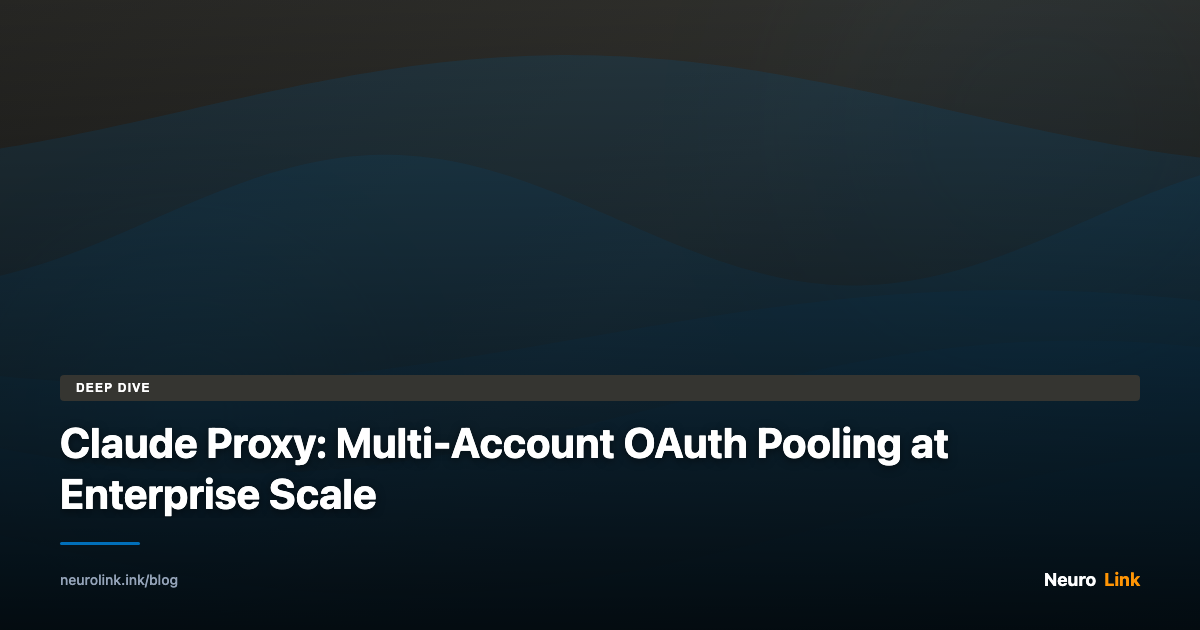
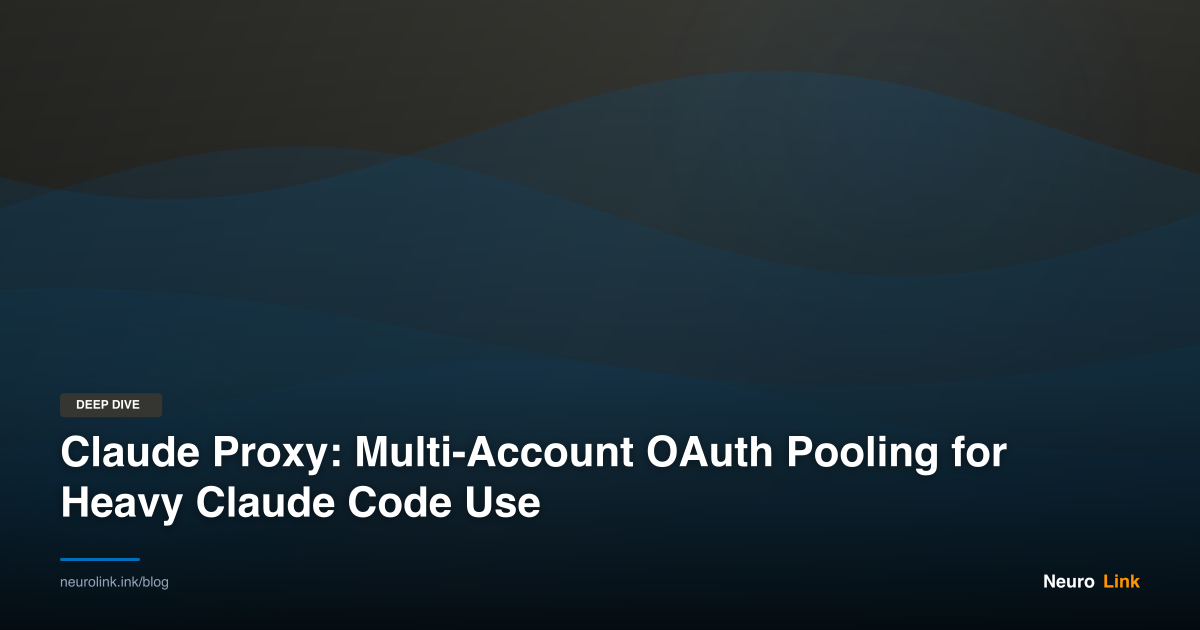
fix(blog): retitle the Claude Proxy pooling post and regenerate its hero
Follow-up to the reframe of its opening. The title, category, tag, image alt
and hero image still said "at Enterprise Scale". Retitle it to
"Claude Proxy: Multi-Account OAuth Pooling for Heavy Claude Code Use", drop
the Enterprise category and tag from this post, and render a new hero with the
same generator as the others.

The URL is unchanged. The five posts that link to it get the new title in
their Related lists, and hero-prompts.json and tone-assignments.json carry it
too.

diff --git a/_posts/2026-03-11-claude-proxy-multi-account-oauth.md b/_posts/2026-03-11-claude-proxy-multi-account-oauth.md
@@ -1,16 +1,14 @@
 ---
 layout: post
-title: 'Claude Proxy: Multi-Account OAuth Pooling at Enterprise Scale'
+title: 'Claude Proxy: Multi-Account OAuth Pooling for Heavy Claude Code Use'
 date: '2026-03-11 09:00:00 +0530'
 categories:
   - Deep Dive
-  - Enterprise
 tags:
   - neurolink
   - claude
   - proxy
   - oauth
-  - enterprise
   - anthropic
   - scaling
 author: neurolink
@@ -23,7 +21,7 @@ mermaid: true
 pin: false
 image:
   path: /assets/img/posts/claude-proxy-multi-account-oauth/hero.png
-  alt: 'Claude Proxy: Multi-Account OAuth Pooling at Enterprise Scale'
+  alt: 'Claude Proxy: Multi-Account OAuth Pooling for Heavy Claude Code Use'
 ---
 
 A single Anthropic account hits rate limits fast. When Claude Code is part of your daily work -- code review, architecture exploration, bug triage -- one account is a bottleneck, and two accounts managed manually is a headache. Picture one developer with a Pro subscription and a Max subscription of their own, switching between them by hand every time a rate-limit window closes: the math does not work.

diff --git a/_posts/2026-07-19-zero-downtime-updates-for-the-proxy.md b/_posts/2026-07-19-zero-downtime-updates-for-the-proxy.md
@@ -235,6 +235,6 @@ None of these are bugs; they're the actual shape of the trade-off this commit ma
 
 **Related posts:**
 
-- [Claude Proxy: Multi-Account OAuth Pooling at Enterprise Scale](/posts/claude-proxy-multi-account-oauth/)
+- [Claude Proxy: Multi-Account OAuth Pooling for Heavy Claude Code Use](/posts/claude-proxy-multi-account-oauth/)
 - [ModelPool's error-class fallback design](/posts/modelpools-error-class-fallback-design/)
 - [Fixing SSRF and TOCTOU in fetch pinning](/posts/fixing-ssrf-and-toctou-in-fetch-pinning/)

diff --git a/_posts/2026-08-21-designing-the-accounts-endpoint.md b/_posts/2026-08-21-designing-the-accounts-endpoint.md
@@ -421,6 +421,6 @@ Filter on `kind === "account"` to drop plumbing rows, read `costUsd` against `co
 
 **Related posts:**
 
-- [Claude Proxy: Multi-Account OAuth Pooling at Enterprise Scale](/posts/claude-proxy-multi-account-oauth/)
+- [Claude Proxy: Multi-Account OAuth Pooling for Heavy Claude Code Use](/posts/claude-proxy-multi-account-oauth/)
 - [Defending against decompression bombs](/posts/defending-against-decompression-bombs/)
 - [Deterministic replay for proxy debugging](/posts/deterministic-replay-for-proxy-debugging/)

diff --git a/_posts/2026-07-20-deterministic-replay-for-proxy-debugging.md b/_posts/2026-07-20-deterministic-replay-for-proxy-debugging.md
@@ -427,6 +427,6 @@ What it does solve is the specific, previously unsolved problem: turning "here's
 
 **Related posts:**
 
-- [Claude Proxy: Multi-Account OAuth Pooling at Enterprise Scale](/posts/claude-proxy-multi-account-oauth/)
+- [Claude Proxy: Multi-Account OAuth Pooling for Heavy Claude Code Use](/posts/claude-proxy-multi-account-oauth/)
 - [Fixing SSRF and TOCTOU in fetch pinning](/posts/fixing-ssrf-and-toctou-in-fetch-pinning/)
 - [Zero-downtime updates for the proxy](/posts/zero-downtime-updates-for-the-proxy/)

diff --git a/_posts/2026-03-12-advanced-mcp-routing-caching-batching.md b/_posts/2026-03-12-advanced-mcp-routing-caching-batching.md
@@ -1136,4 +1136,4 @@ Every module follows the same pattern: import, configure, compose. Start with th
 
 - [MCP Tools: Extending AI with External Capabilities](/posts/mcp-tools-integration/)
 - [How We Built MCP Integration: Supporting 4 Transport Protocols](/posts/how-we-built-mcp-integration/)
-- [Claude Proxy: Multi-Account OAuth Pooling at Enterprise Scale](/posts/claude-proxy-multi-account-oauth/)
+- [Claude Proxy: Multi-Account OAuth Pooling for Heavy Claude Code Use](/posts/claude-proxy-multi-account-oauth/)

diff --git a/_posts/2026-08-22-the-byte-cursor-ledger-tracking-proxy-state-precisely.md b/_posts/2026-08-22-the-byte-cursor-ledger-tracking-proxy-state-precisely.md
@@ -322,6 +322,6 @@ What `accountLedger.ts` adds on top of that skeleton is the domain-specific half
 
 **Related posts:**
 
-- [Claude Proxy: Multi-Account OAuth Pooling at Enterprise Scale](/posts/claude-proxy-multi-account-oauth/)
+- [Claude Proxy: Multi-Account OAuth Pooling for Heavy Claude Code Use](/posts/claude-proxy-multi-account-oauth/)
 - [ModelPool's error-class fallback design](/posts/modelpools-error-class-fallback-design/)
 - [Designing the /accounts endpoint](/posts/designing-the-accounts-endpoint/)
